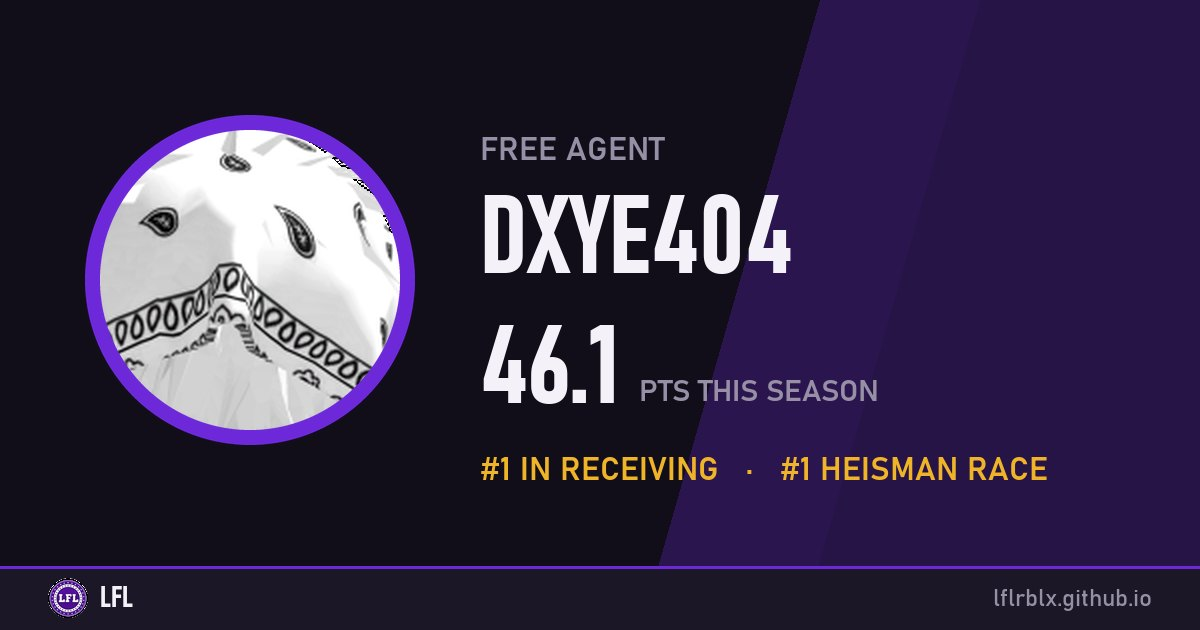
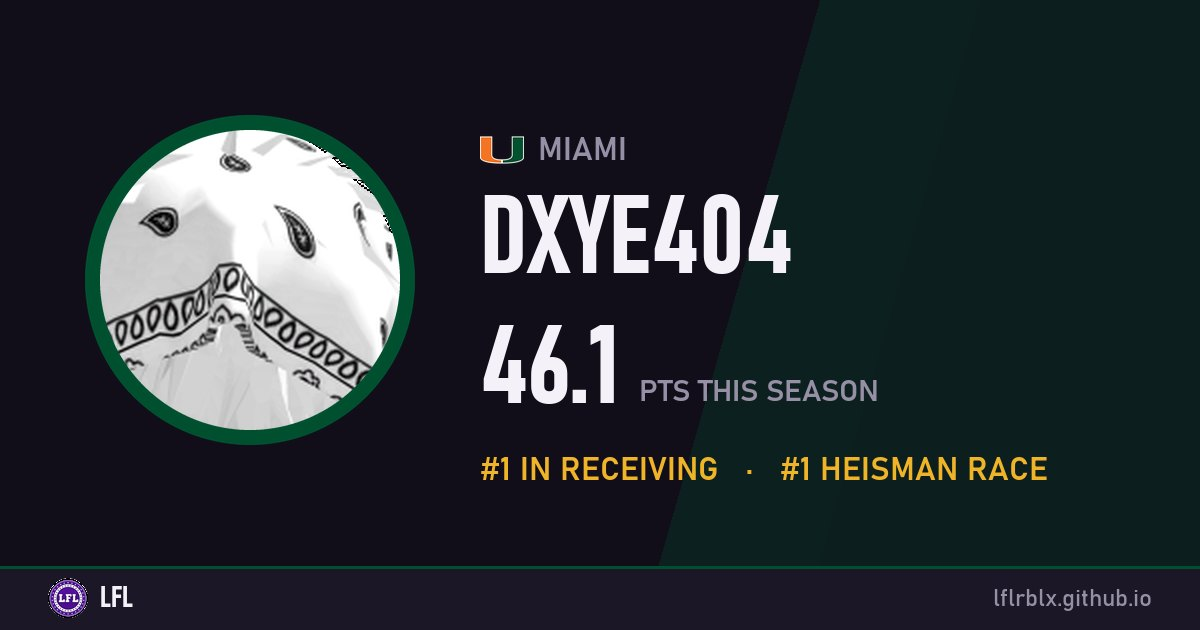
Stats update 2026-11-22 12:00

diff --git a/game/1/index.html b/game/1/index.html
@@ -5,27 +5,27 @@
   <meta name="viewport" content="width=device-width, initial-scale=1, viewport-fit=cover">
   <!--meta:start-->
   <title>Miami 45, Auburn 12 · Final · LFL</title>
-  <meta name="description" content="Miami beat Auburn 45–12. DXYE404 led the way with 4 catches for 251 yards and 3 TDs. Player of the game: DXYE404 (46.1 PTS).">
+  <meta name="description" content="DXYE404 had 4 catches for 251 yards and 3 TDs as Miami beat Auburn 45–12. Player of the game: DXYE404 (46.1 PTS).">
   <meta name="theme-color" content="#005030">
   <meta property="og:site_name" content="LFL">
   <meta property="og:type" content="website">
   <meta property="og:title" content="Miami 45, Auburn 12 · Final · LFL">
-  <meta property="og:description" content="Miami beat Auburn 45–12. DXYE404 led the way with 4 catches for 251 yards and 3 TDs. Player of the game: DXYE404 (46.1 PTS).">
+  <meta property="og:description" content="DXYE404 had 4 catches for 251 yards and 3 TDs as Miami beat Auburn 45–12. Player of the game: DXYE404 (46.1 PTS).">
   <meta property="og:url" content="https://lflrblx.github.io/game/1">
-  <meta property="og:image" content="https://lflrblx.github.io/og/game-1.jpg?v=fe3005de54">
+  <meta property="og:image" content="https://lflrblx.github.io/og/game-1.jpg?v=75f7f31b9c">
   <meta property="og:image:width" content="1200">
   <meta property="og:image:height" content="630">
   <meta name="twitter:card" content="summary_large_image">
   <meta name="twitter:title" content="Miami 45, Auburn 12 · Final · LFL">
-  <meta name="twitter:description" content="Miami beat Auburn 45–12. DXYE404 led the way with 4 catches for 251 yards and 3 TDs. Player of the game: DXYE404 (46.1 PTS).">
-  <meta name="twitter:image" content="https://lflrblx.github.io/og/game-1.jpg?v=fe3005de54">
+  <meta name="twitter:description" content="DXYE404 had 4 catches for 251 yards and 3 TDs as Miami beat Auburn 45–12. Player of the game: DXYE404 (46.1 PTS).">
+  <meta name="twitter:image" content="https://lflrblx.github.io/og/game-1.jpg?v=75f7f31b9c">
   <!--meta:end-->
   <link rel="icon" href="/img/favicon.png">
   <link rel="apple-touch-icon" href="/img/apple-touch-icon.png">
   <link rel="preconnect" href="https://fonts.googleapis.com">
   <link rel="preconnect" href="https://fonts.gstatic.com" crossorigin>
   <link href="https://fonts.googleapis.com/css2?family=Barlow+Condensed:ital,wght@0,500;0,600;0,700;0,800;1,700;1,800&family=Barlow:wght@400;500;600;700&display=swap" rel="stylesheet">
-  <link rel="stylesheet" href="/styles.css?v=51e551e7">
+  <link rel="stylesheet" href="/styles.css?v=9ea1b42d">
   <script>
     try { const t = localStorage.getItem("lfl-theme"); if (t) document.documentElement.dataset.theme = t; } catch (e) {}
   </script>
@@ -131,6 +131,6 @@
 
   <script>window.LFL_FIREBASE = { projectId: "lflrblx-370f8", databaseURL: "https://lflrblx-370f8-default-rtdb.firebaseio.com" };</script>
   <script type="module" src="/live.js?v=3bd25d02"></script>
-  <script src="/app.js?v=ff329b2d" defer></script>
+  <script src="/app.js?v=849c1637" defer></script>
 </body>
 </html>

diff --git a/player/dxye404/index.html b/player/dxye404/index.html
@@ -5,27 +5,27 @@
   <meta name="viewport" content="width=device-width, initial-scale=1, viewport-fit=cover">
   <!--meta:start-->
   <title>DXYE404 · LFL</title>
-  <meta name="description" content="WR · Free agent · 46.1 PTS in season 1 · #1 In Receiving   ·   #1 Heisman Race. Stats, game log and career highs.">
-  <meta name="theme-color" content="#6d28d9">
+  <meta name="description" content="WR · Miami · 46.1 PTS in season 1 · #1 In Receiving   ·   #1 Heisman Race. Stats, game log and career highs.">
+  <meta name="theme-color" content="#005030">
   <meta property="og:site_name" content="LFL">
   <meta property="og:type" content="website">
   <meta property="og:title" content="DXYE404 · LFL">
-  <meta property="og:description" content="WR · Free agent · 46.1 PTS in season 1 · #1 In Receiving   ·   #1 Heisman Race. Stats, game log and career highs.">
+  <meta property="og:description" content="WR · Miami · 46.1 PTS in season 1 · #1 In Receiving   ·   #1 Heisman Race. Stats, game log and career highs.">
   <meta property="og:url" content="https://lflrblx.github.io/player/dxye404">
-  <meta property="og:image" content="https://lflrblx.github.io/og/player-dxye404.jpg?v=36494014de">
+  <meta property="og:image" content="https://lflrblx.github.io/og/player-dxye404.jpg?v=cd283d8957">
   <meta property="og:image:width" content="1200">
   <meta property="og:image:height" content="630">
   <meta name="twitter:card" content="summary_large_image">
   <meta name="twitter:title" content="DXYE404 · LFL">
-  <meta name="twitter:description" content="WR · Free agent · 46.1 PTS in season 1 · #1 In Receiving   ·   #1 Heisman Race. Stats, game log and career highs.">
-  <meta name="twitter:image" content="https://lflrblx.github.io/og/player-dxye404.jpg?v=36494014de">
+  <meta name="twitter:description" content="WR · Miami · 46.1 PTS in season 1 · #1 In Receiving   ·   #1 Heisman Race. Stats, game log and career highs.">
+  <meta name="twitter:image" content="https://lflrblx.github.io/og/player-dxye404.jpg?v=cd283d8957">
   <!--meta:end-->
   <link rel="icon" href="/img/favicon.png">
   <link rel="apple-touch-icon" href="/img/apple-touch-icon.png">
   <link rel="preconnect" href="https://fonts.googleapis.com">
   <link rel="preconnect" href="https://fonts.gstatic.com" crossorigin>
   <link href="https://fonts.googleapis.com/css2?family=Barlow+Condensed:ital,wght@0,500;0,600;0,700;0,800;1,700;1,800&family=Barlow:wght@400;500;600;700&display=swap" rel="stylesheet">
-  <link rel="stylesheet" href="/styles.css?v=51e551e7">
+  <link rel="stylesheet" href="/styles.css?v=9ea1b42d">
   <script>
     try { const t = localStorage.getItem("lfl-theme"); if (t) document.documentElement.dataset.theme = t; } catch (e) {}
   </script>
@@ -131,6 +131,6 @@
 
   <script>window.LFL_FIREBASE = { projectId: "lflrblx-370f8", databaseURL: "https://lflrblx-370f8-default-rtdb.firebaseio.com" };</script>
   <script type="module" src="/live.js?v=3bd25d02"></script>
-  <script src="/app.js?v=ff329b2d" defer></script>
+  <script src="/app.js?v=849c1637" defer></script>
 </body>
 </html>

diff --git a/app.js b/app.js
@@ -418,6 +418,12 @@
             <span class="opp"><span class="vs">vs</span>${mark(r.opp, "sm")}<span>${esc(r.opp)}</span></span>
             <span class="res"><i class="${r.res}">${r.res}</i>${r.pf}–${r.pa}</span></a>`).join("") : `<div class="empty-mini">No games yet.</div>`}</div></section>
         <aside class="card">
+          ${t.coach ? (() => {
+            const c = t.coach, p = D.players[c.key];
+            const pic = p ? hs(c.key, c.name, "md") : `<span class="hs md">${c.avatar ? `<img src="${esc(c.avatar)}" alt="">` : esc(c.name.slice(0, 2).toUpperCase())}</span>`;
+            const inner = `${pic}<span class="who"><small class="coach-tag">Head coach</small><b>${esc(c.name)}</b>${p ? `<small>${fmt(p.pts)} PTS as a player</small>` : ""}</span>`;
+            return `<div class="rail-head"><h3>Head coach</h3></div>` + (p ? `<a class="rail-row coach-row" href="${playerHref(c.key)}" data-link>${inner}</a>` : `<div class="rail-row coach-row">${inner}</div>`);
+          })() : ""}
           <div class="rail-head"><h3>Team leaders</h3></div>
           ${D.tabs.filter((x) => t.leaders[x.key]).map((x) => { const l = t.leaders[x.key]; return `<a class="rail-row" href="${playerHref(l.key)}" data-link><span class="pos">${x.pos}</span>${hs(l.key, l.player)}<span class="who"><b>${esc(l.player)}</b><small>${esc(l.phrase)}</small></span><span class="v">${fmt(l.pts)}<small>PTS</small></span></a>`; }).join("") || `<div class="empty-mini">No leaders yet.</div>`}
         </aside>
@@ -445,7 +451,7 @@
         <a class="crumb" href="/stats/qb" data-link>${BACK} Stat leaders</a>
         <section ${heroAttr(t && t.color)}>
           ${hs(key, p.name, "xl")}
-          <div><div class="k">${p.team ? teamLink(p.team) : "Free agent"}${tabsHere.length ? " · " + tabsHere.map((x) => x.pos).join(" / ") : ""}</div><h1 class="nocase">${esc(p.name)}</h1></div>
+          <div><div class="k">${p.team ? teamLink(p.team) : "Free agent"}${p.role ? ` · <span class="role">${esc(p.role)}</span>` : ""}${tabsHere.length ? " · " + tabsHere.map((x) => x.pos).join(" / ") : ""}</div><h1 class="nocase">${esc(p.name)}</h1></div>
           <div class="big">${fmt(curPts)}<small>Season ${s} PTS</small></div>
         </section>
         <div class="statbar" style="margin-top:12px">

diff --git a/404.html b/404.html
@@ -25,7 +25,7 @@
   <link rel="preconnect" href="https://fonts.googleapis.com">
   <link rel="preconnect" href="https://fonts.gstatic.com" crossorigin>
   <link href="https://fonts.googleapis.com/css2?family=Barlow+Condensed:ital,wght@0,500;0,600;0,700;0,800;1,700;1,800&family=Barlow:wght@400;500;600;700&display=swap" rel="stylesheet">
-  <link rel="stylesheet" href="/styles.css?v=51e551e7">
+  <link rel="stylesheet" href="/styles.css?v=9ea1b42d">
   <script>
     try { const t = localStorage.getItem("lfl-theme"); if (t) document.documentElement.dataset.theme = t; } catch (e) {}
   </script>
@@ -131,6 +131,6 @@
 
   <script>window.LFL_FIREBASE = { projectId: "lflrblx-370f8", databaseURL: "https://lflrblx-370f8-default-rtdb.firebaseio.com" };</script>
   <script type="module" src="/live.js?v=3bd25d02"></script>
-  <script src="/app.js?v=ff329b2d" defer></script>
+  <script src="/app.js?v=849c1637" defer></script>
 </body>
 </html>

diff --git a/awards/index.html b/awards/index.html
@@ -25,7 +25,7 @@
   <link rel="preconnect" href="https://fonts.googleapis.com">
   <link rel="preconnect" href="https://fonts.gstatic.com" crossorigin>
   <link href="https://fonts.googleapis.com/css2?family=Barlow+Condensed:ital,wght@0,500;0,600;0,700;0,800;1,700;1,800&family=Barlow:wght@400;500;600;700&display=swap" rel="stylesheet">
-  <link rel="stylesheet" href="/styles.css?v=51e551e7">
+  <link rel="stylesheet" href="/styles.css?v=9ea1b42d">
   <script>
     try { const t = localStorage.getItem("lfl-theme"); if (t) document.documentElement.dataset.theme = t; } catch (e) {}
   </script>
@@ -131,6 +131,6 @@
 
   <script>window.LFL_FIREBASE = { projectId: "lflrblx-370f8", databaseURL: "https://lflrblx-370f8-default-rtdb.firebaseio.com" };</script>
   <script type="module" src="/live.js?v=3bd25d02"></script>
-  <script src="/app.js?v=ff329b2d" defer></script>
+  <script src="/app.js?v=849c1637" defer></script>
 </body>
 </html>

diff --git a/heisman/index.html b/heisman/index.html
@@ -25,7 +25,7 @@
   <link rel="preconnect" href="https://fonts.googleapis.com">
   <link rel="preconnect" href="https://fonts.gstatic.com" crossorigin>
   <link href="https://fonts.googleapis.com/css2?family=Barlow+Condensed:ital,wght@0,500;0,600;0,700;0,800;1,700;1,800&family=Barlow:wght@400;500;600;700&display=swap" rel="stylesheet">
-  <link rel="stylesheet" href="/styles.css?v=51e551e7">
+  <link rel="stylesheet" href="/styles.css?v=9ea1b42d">
   <script>
     try { const t = localStorage.getItem("lfl-theme"); if (t) document.documentElement.dataset.theme = t; } catch (e) {}
   </script>
@@ -131,6 +131,6 @@
 
   <script>window.LFL_FIREBASE = { projectId: "lflrblx-370f8", databaseURL: "https://lflrblx-370f8-default-rtdb.firebaseio.com" };</script>
   <script type="module" src="/live.js?v=3bd25d02"></script>
-  <script src="/app.js?v=ff329b2d" defer></script>
+  <script src="/app.js?v=849c1637" defer></script>
 </body>
 </html>

diff --git a/index.html b/index.html
@@ -25,7 +25,7 @@
   <link rel="preconnect" href="https://fonts.googleapis.com">
   <link rel="preconnect" href="https://fonts.gstatic.com" crossorigin>
   <link href="https://fonts.googleapis.com/css2?family=Barlow+Condensed:ital,wght@0,500;0,600;0,700;0,800;1,700;1,800&family=Barlow:wght@400;500;600;700&display=swap" rel="stylesheet">
-  <link rel="stylesheet" href="/styles.css?v=51e551e7">
+  <link rel="stylesheet" href="/styles.css?v=9ea1b42d">
   <script>
     try { const t = localStorage.getItem("lfl-theme"); if (t) document.documentElement.dataset.theme = t; } catch (e) {}
   </script>
@@ -131,6 +131,6 @@
 
   <script>window.LFL_FIREBASE = { projectId: "lflrblx-370f8", databaseURL: "https://lflrblx-370f8-default-rtdb.firebaseio.com" };</script>
   <script type="module" src="/live.js?v=3bd25d02"></script>
-  <script src="/app.js?v=ff329b2d" defer></script>
+  <script src="/app.js?v=849c1637" defer></script>
 </body>
 </html>

diff --git a/points/index.html b/points/index.html
@@ -25,7 +25,7 @@
   <link rel="preconnect" href="https://fonts.googleapis.com">
   <link rel="preconnect" href="https://fonts.gstatic.com" crossorigin>
   <link href="https://fonts.googleapis.com/css2?family=Barlow+Condensed:ital,wght@0,500;0,600;0,700;0,800;1,700;1,800&family=Barlow:wght@400;500;600;700&display=swap" rel="stylesheet">
-  <link rel="stylesheet" href="/styles.css?v=51e551e7">
+  <link rel="stylesheet" href="/styles.css?v=9ea1b42d">
   <script>
     try { const t = localStorage.getItem("lfl-theme"); if (t) document.documentElement.dataset.theme = t; } catch (e) {}
   </script>
@@ -131,6 +131,6 @@
 
   <script>window.LFL_FIREBASE = { projectId: "lflrblx-370f8", databaseURL: "https://lflrblx-370f8-default-rtdb.firebaseio.com" };</script>
   <script type="module" src="/live.js?v=3bd25d02"></script>
-  <script src="/app.js?v=ff329b2d" defer></script>
+  <script src="/app.js?v=849c1637" defer></script>
 </body>
 </html>

diff --git a/records/index.html b/records/index.html
@@ -25,7 +25,7 @@
   <link rel="preconnect" href="https://fonts.googleapis.com">
   <link rel="preconnect" href="https://fonts.gstatic.com" crossorigin>
   <link href="https://fonts.googleapis.com/css2?family=Barlow+Condensed:ital,wght@0,500;0,600;0,700;0,800;1,700;1,800&family=Barlow:wght@400;500;600;700&display=swap" rel="stylesheet">
-  <link rel="stylesheet" href="/styles.css?v=51e551e7">
+  <link rel="stylesheet" href="/styles.css?v=9ea1b42d">
   <script>
     try { const t = localStorage.getItem("lfl-theme"); if (t) document.documentElement.dataset.theme = t; } catch (e) {}
   </script>
@@ -131,6 +131,6 @@
 
   <script>window.LFL_FIREBASE = { projectId: "lflrblx-370f8", databaseURL: "https://lflrblx-370f8-default-rtdb.firebaseio.com" };</script>
   <script type="module" src="/live.js?v=3bd25d02"></script>
-  <script src="/app.js?v=ff329b2d" defer></script>
+  <script src="/app.js?v=849c1637" defer></script>
 </body>
 </html>

diff --git a/scores/index.html b/scores/index.html
@@ -25,7 +25,7 @@
   <link rel="preconnect" href="https://fonts.googleapis.com">
   <link rel="preconnect" href="https://fonts.gstatic.com" crossorigin>
   <link href="https://fonts.googleapis.com/css2?family=Barlow+Condensed:ital,wght@0,500;0,600;0,700;0,800;1,700;1,800&family=Barlow:wght@400;500;600;700&display=swap" rel="stylesheet">
-  <link rel="stylesheet" href="/styles.css?v=51e551e7">
+  <link rel="stylesheet" href="/styles.css?v=9ea1b42d">
   <script>
     try { const t = localStorage.getItem("lfl-theme"); if (t) document.documentElement.dataset.theme = t; } catch (e) {}
   </script>
@@ -131,6 +131,6 @@
 
   <script>window.LFL_FIREBASE = { projectId: "lflrblx-370f8", databaseURL: "https://lflrblx-370f8-default-rtdb.firebaseio.com" };</script>
   <script type="module" src="/live.js?v=3bd25d02"></script>
-  <script src="/app.js?v=ff329b2d" defer></script>
+  <script src="/app.js?v=849c1637" defer></script>
 </body>
 </html>

diff --git a/standings/index.html b/standings/index.html
@@ -25,7 +25,7 @@
   <link rel="preconnect" href="https://fonts.googleapis.com">
   <link rel="preconnect" href="https://fonts.gstatic.com" crossorigin>
   <link href="https://fonts.googleapis.com/css2?family=Barlow+Condensed:ital,wght@0,500;0,600;0,700;0,800;1,700;1,800&family=Barlow:wght@400;500;600;700&display=swap" rel="stylesheet">
-  <link rel="stylesheet" href="/styles.css?v=51e551e7">
+  <link rel="stylesheet" href="/styles.css?v=9ea1b42d">
   <script>
     try { const t = localStorage.getItem("lfl-theme"); if (t) document.documentElement.dataset.theme = t; } catch (e) {}
   </script>
@@ -131,6 +131,6 @@
 
   <script>window.LFL_FIREBASE = { projectId: "lflrblx-370f8", databaseURL: "https://lflrblx-370f8-default-rtdb.firebaseio.com" };</script>
   <script type="module" src="/live.js?v=3bd25d02"></script>
-  <script src="/app.js?v=ff329b2d" defer></script>
+  <script src="/app.js?v=849c1637" defer></script>
 </body>
 </html>

diff --git a/stats/db/index.html b/stats/db/index.html
@@ -25,7 +25,7 @@
   <link rel="preconnect" href="https://fonts.googleapis.com">
   <link rel="preconnect" href="https://fonts.gstatic.com" crossorigin>
   <link href="https://fonts.googleapis.com/css2?family=Barlow+Condensed:ital,wght@0,500;0,600;0,700;0,800;1,700;1,800&family=Barlow:wght@400;500;600;700&display=swap" rel="stylesheet">
-  <link rel="stylesheet" href="/styles.css?v=51e551e7">
+  <link rel="stylesheet" href="/styles.css?v=9ea1b42d">
   <script>
     try { const t = localStorage.getItem("lfl-theme"); if (t) document.documentElement.dataset.theme = t; } catch (e) {}
   </script>
@@ -131,6 +131,6 @@
 
   <script>window.LFL_FIREBASE = { projectId: "lflrblx-370f8", databaseURL: "https://lflrblx-370f8-default-rtdb.firebaseio.com" };</script>
   <script type="module" src="/live.js?v=3bd25d02"></script>
-  <script src="/app.js?v=ff329b2d" defer></script>
+  <script src="/app.js?v=849c1637" defer></script>
 </body>
 </html>
